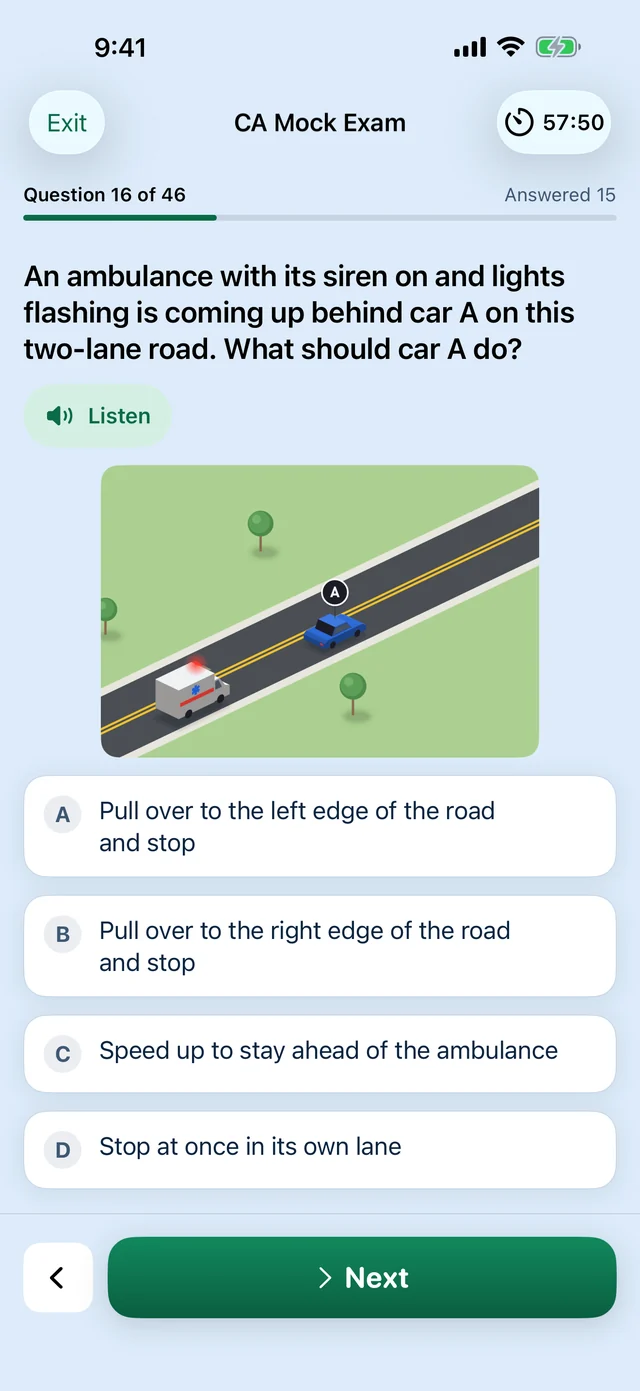
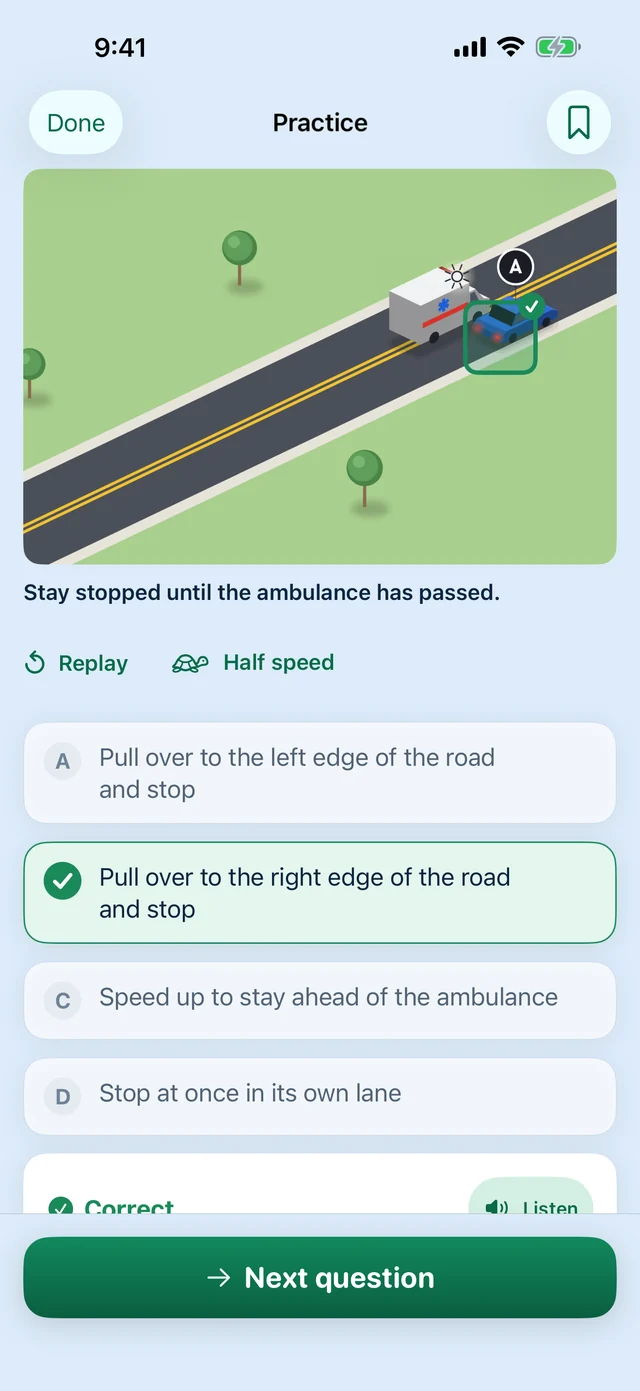
Concept C round 4: whole phone tops everywhere, full screens, stacked phone cards
- Spanish step 1: the old notch is gone; the frame's dynamic island sits over a clean status bar
- Hero results screens show the real 'What you missed' card instead of an empty bottom third
- Animated scenes card: the large playing ambulance scene; Spanish card: a full question with its scene
- Motorcycle card: the motorcycle home (rider photo, readable); Spanish step 3 mock exam with a scene
- Spanish teen card: the Spanish home (no clipped streak card); closing: 14-day streak in both languages
- Phone: steps and app screens stack (no half-cut neighbour cards); proof cards before the hero phone
- Trial line as plain text, '5.0 on the App Store', nav download button, badge after the signs
- Parents: 4:3 photo with caption, cards end level; guarantee in three ticked lines
- Closing: App Store button leads, state samples a small link; Spanish copy fixes (carro, Mamá o papá)

diff --git a/es/index.html b/es/index.html
@@ -59,6 +59,7 @@
       <a href="/es/motocicleta/"><span class="d-only">Motocicleta</span><span class="m-only">Moto</span></a>
       <a href="/es/padres/">Padres</a>
       <a class="d-only" href="/es/garantia/">Garantía</a>
+      <a class="nav-dl store-link d-only" data-store="es-car" href="https://apps.apple.com/us/app/id6813140105">Descargar</a>
       <a class="lang" href="/" hreflang="en" lang="en" aria-label="English"><span class="d-only">English</span><span class="m-only">EN</span></a>
     </nav>
   </div>
@@ -70,10 +71,10 @@
       <div class="hero-copy">
         <span class="eyebrow"><span class="dot" aria-hidden="true"></span>Para los 50 estados y DC</span>
         <h1 id="hero-title">Aprueba tu examen del permiso a la primera. <span class="money">O te devolvemos tu dinero.</span></h1>
-        <p class="lede">Más de 6,250 preguntas de práctica, escenas animadas de manejo y simulacros completos con el formato real de tu estado. Auto o motocicleta, a cualquier edad, en español o en inglés.</p>
+        <p class="lede">Practica para el examen escrito del permiso de manejo con más de 6,250 preguntas, escenas animadas y simulacros con el formato real de tu estado. Carro o motocicleta, a cualquier edad, en español o en inglés.</p>
         <div class="cta-row" id="hero-cta">
           <a class="store-link appstore" data-store="es-car" href="https://apps.apple.com/us/app/id6813140105"><img src="/img/app-store-badge-es.svg" alt="Descárgalo en el App Store" width="162" height="54"></a>
-          <p class="trial es1"><svg class="i" viewBox="0 0 24 24" aria-hidden="true"><path d="M5 12.5l4.2 4.2L19 7"/></svg><span><span class="ln">Prueba gratis de 3 días</span> <span class="sep">·</span> <span class="ln">Cancela cuando quieras</span></span></p>
+          <p class="trial plain es1"><svg class="i" viewBox="0 0 24 24" aria-hidden="true"><path d="M5 12.5l4.2 4.2L19 7"/></svg><span><span class="ln">Prueba gratis de 3 días</span> <span class="sep">·</span> <span class="ln">Cancela cuando quieras</span></span></p>
         </div>
       </div>
       <figure class="hero-visual">
@@ -81,10 +82,10 @@
         <figcaption class="cap">Un resultado real de simulacro en DriveDrill</figcaption>
       </figure>
       <div class="hero-more">
-        <p class="cancel">Cancela en Ajustes del iPhone antes de que terminen los 3 días y no pagas nada.</p>
+        <p class="cancel">Si cancelas en Ajustes del iPhone antes de que terminen los 3 días, no pagas nada.</p>
         <ul class="hero-proof">
           <li><img class="shield-s" src="/concept-c/img/shield-es.webp" width="192" height="216" alt=""><span><b>Garantía de aprobación:</b> apruebas tu examen de conocimientos o te devolvemos tu dinero. <a href="/es/garantia/">Aplican condiciones.</a></span></li>
-          <li><a class="store-link rate" data-store="es-car" href="https://apps.apple.com/us/app/id6813140105"><span class="big">5.0</span><span><span class="stars" aria-hidden="true"><svg class="i" viewBox="0 0 24 24"><path d="M12 3.2l2.6 5.3 5.9.9-4.3 4.1 1 5.8L12 16.6l-5.2 2.7 1-5.8-4.3-4.1 5.9-.9z"/></svg><svg class="i" viewBox="0 0 24 24"><path d="M12 3.2l2.6 5.3 5.9.9-4.3 4.1 1 5.8L12 16.6l-5.2 2.7 1-5.8-4.3-4.1 5.9-.9z"/></svg><svg class="i" viewBox="0 0 24 24"><path d="M12 3.2l2.6 5.3 5.9.9-4.3 4.1 1 5.8L12 16.6l-5.2 2.7 1-5.8-4.3-4.1 5.9-.9z"/></svg><svg class="i" viewBox="0 0 24 24"><path d="M12 3.2l2.6 5.3 5.9.9-4.3 4.1 1 5.8L12 16.6l-5.2 2.7 1-5.8-4.3-4.1 5.9-.9z"/></svg><svg class="i" viewBox="0 0 24 24"><path d="M12 3.2l2.6 5.3 5.9.9-4.3 4.1 1 5.8L12 16.6l-5.2 2.7 1-5.8-4.3-4.1 5.9-.9z"/></svg></span><br><span class="u">Calificación de 5.0 en el App Store</span></span></a></li>
+          <li><a class="store-link rate" data-store="es-car" href="https://apps.apple.com/us/app/id6813140105"><span class="big">5.0</span><span><span class="stars" aria-hidden="true"><svg class="i" viewBox="0 0 24 24"><path d="M12 3.2l2.6 5.3 5.9.9-4.3 4.1 1 5.8L12 16.6l-5.2 2.7 1-5.8-4.3-4.1 5.9-.9z"/></svg><svg class="i" viewBox="0 0 24 24"><path d="M12 3.2l2.6 5.3 5.9.9-4.3 4.1 1 5.8L12 16.6l-5.2 2.7 1-5.8-4.3-4.1 5.9-.9z"/></svg><svg class="i" viewBox="0 0 24 24"><path d="M12 3.2l2.6 5.3 5.9.9-4.3 4.1 1 5.8L12 16.6l-5.2 2.7 1-5.8-4.3-4.1 5.9-.9z"/></svg><svg class="i" viewBox="0 0 24 24"><path d="M12 3.2l2.6 5.3 5.9.9-4.3 4.1 1 5.8L12 16.6l-5.2 2.7 1-5.8-4.3-4.1 5.9-.9z"/></svg><svg class="i" viewBox="0 0 24 24"><path d="M12 3.2l2.6 5.3 5.9.9-4.3 4.1 1 5.8L12 16.6l-5.2 2.7 1-5.8-4.3-4.1 5.9-.9z"/></svg></span><br><span class="u">en el App Store</span></span></a></li>
         </ul>
         <p class="hero-links"><a href="#estados">Preguntas de muestra de tu estado →</a><a href="#familias">¿Pagas tú por tu hijo o hija? Mira cómo →</a></p>
       </div>
@@ -106,11 +107,10 @@
       <h2 id="how-title">Tres pasos hasta el día del examen.</h2>
       <p class="sec-sub">Descubre en qué nivel estás con una prueba rápida de 3 minutos y sigue un plan hecho con tus propias respuestas.</p>
       <ol class="rail steps">
-        <li class="card step"><span class="n">1</span><h3>Haz la prueba de nivel</h3><p class="t">Elige tu estado y responde 6 preguntas como las del examen real, en unos 3 minutos. Gratis.</p><div class="phone"><img src="/concept-c/img/es-start.webp" width="640" height="1385" alt="La primera pantalla de DriveDrill en español: Prepárate para aprobar tu examen de permiso, calificación de 5.0 en el App Store, la Garantía de aprobación, auto o motocicleta y la lista de estados, con el botón Empezar." loading="lazy" decoding="async"></div></li>
-        <li class="card step"><span class="n">2</span><h3>Recibe tu plan</h3><p class="t">Ve tus temas débiles, la fecha en que tendrás todo listo y tu meta diaria.</p><div class="phone"><img src="/concept-c/img/es-plan.webp" width="640" height="1391" alt="Pantalla de DriveDrill: Tu plan de California está listo, con la gráfica hacia la nota para aprobar, preguntas por día y un simulacro cada 3 días." loading="lazy" decoding="async"></div></li>
-        <li class="card step"><span class="n">3</span><h3>Aprueba el simulacro</h3><p class="t">Simulacros completos con el formato real de tu estado. Cada respuesta, explicada.</p><div class="phone isl"><img src="/concept-c/img/es-exam.webp" width="640" height="1391" alt="Pantalla de DriveDrill: Simulacro de examen de CA, pregunta 16 de 46, sobre qué hacer si no estás en el carril correcto para dar vuelta." loading="lazy" decoding="async"></div></li>
+        <li class="card step"><span class="n">1</span><h3>Haz la prueba de nivel</h3><p class="t">Elige tu estado y responde 6 preguntas como las del examen real, en unos 3 minutos. Gratis.</p><div class="phone isl"><img src="/concept-c/img/es-start.webp" width="640" height="1385" alt="La primera pantalla de DriveDrill en español: Prepárate para aprobar tu examen de permiso, calificación de 5.0 en el App Store, la Garantía de aprobación, carro o motocicleta y la lista de estados, con el botón Empezar." loading="lazy" decoding="async"></div></li>
+        <li class="card step"><span class="n">2</span><h3>Recibe tu plan</h3><p class="t">Ve la fecha en que tendrás todo listo, tu meta diaria y un simulacro cada pocos días.</p><div class="phone"><img src="/concept-c/img/es-plan.webp" width="640" height="1391" alt="Pantalla de DriveDrill: Tu plan de California está listo, con la gráfica hacia la nota para aprobar, preguntas por día y un simulacro cada 3 días." loading="lazy" decoding="async"></div></li>
+        <li class="card step"><span class="n">3</span><h3>Aprueba el simulacro</h3><p class="t">Simulacros completos con el formato real de tu estado. Cada respuesta, explicada.</p><div class="phone isl"><img src="/concept-c/img/es-exam.webp" width="640" height="1391" alt="Pantalla de DriveDrill: Simulacro de examen de CA, pregunta 16 de 46, con una escena de una ambulancia que se acerca por detrás del vehículo A en un camino de dos carriles, y cuatro respuestas." loading="lazy" decoding="async"></div></li>
       </ol>
-      <p class="swipe-hint">Desliza para ver los pasos 2 y 3 →</p>
       <div class="mini-cta">
         <a class="store-link appstore" data-store="es-car" href="https://apps.apple.com/us/app/id6813140105"><img src="/img/app-store-badge-es.svg" alt="Descárgalo en el App Store" width="162" height="54"></a>
         <p>Empieza con la prueba rápida de 3 minutos, gratis.</p>
@@ -128,18 +128,17 @@
       <div class="rail feats">
         <article class="card feat">
           <h3>También para el permiso de moto</h3><p class="t">Con sus propias lecciones, exámenes de práctica y racha diaria, en la misma app. <a href="/es/motocicleta/">Prepárate para el permiso de moto</a></p>
-          <div class="phone"><img src="/concept-c/img/es-moto.webp" width="640" height="1391" alt="Pantalla de DriveDrill: Tu plan de motocicleta de California está listo, con 70 preguntas al día, un examen de práctica cada 3 días, preguntas de tres ruedas y la inspección antes de manejar." loading="lazy" decoding="async"></div>
+          <div class="phone"><img src="/concept-c/img/es-moto.webp" width="640" height="1391" alt="Inicio de motocicleta en DriveDrill: 5 días de racha, Él aprobó. Tú sigues., con un nuevo motociclista que muestra su licencia, y la siguiente lección, Casco y equipo 2." loading="lazy" decoding="async"></div>
         </article>
         <article class="card feat">
           <h3>Escenas animadas de manejo</h3><p class="t">Más de 60 escenas. Mira la situación y luego responde.</p>
-          <div class="phone isl"><img src="/concept-c/img/es-scene.webp" width="640" height="1391" alt="Simulacro de examen de CA en DriveDrill, pregunta 16 de 46: una escena animada de una ambulancia que se acerca por detrás del vehículo A en un camino de dos carriles, con cuatro respuestas." loading="lazy" decoding="async"></div>
+          <div class="phone isl"><img src="/concept-c/img/es-scene.webp" width="640" height="1391" alt="Práctica en DriveDrill: una escena animada grande de una ambulancia con luces intermitentes detrás del vehículo A, que se orilló al borde derecho del camino. Abajo: quédate detenido hasta que haya pasado la ambulancia, y la respuesta correcta marcada." loading="lazy" decoding="async"></div>
         </article>
         <article class="card feat">
           <h3>Todo en español</h3><p class="t">Cada pregunta, lección y pantalla en español o en inglés, como prefieras.</p>
-          <div class="phone isl"><img src="/concept-c/img/es-watch.webp" width="640" height="1391" alt="Pregunta de práctica de DriveDrill en español, con una escena animada de un conductor que sale del camino para contestar el teléfono y la respuesta correcta marcada: ilegal para todos los conductores." loading="lazy" decoding="async"></div>
+          <div class="phone isl"><img src="/concept-c/img/es-question.webp" width="640" height="1391" alt="Pregunta de práctica de DriveDrill en español: En California, usar un teléfono celular en la mano mientras manejas es:, con una escena animada y la respuesta correcta marcada: ilegal para todos los conductores." loading="lazy" decoding="async"></div>
         </article>
       </div>
-      <p class="swipe-hint">Desliza para ver más →</p>
       <article class="card signs-card">
         <h3>Señales vistas desde el volante</h3><p class="t">90 señales de tránsito tal como las ves al manejar. Encuentra la señal y responde.</p>
         <ul class="rail signs">
@@ -151,6 +150,10 @@
           <li><figure><img src="/img/pov/W4-2R_lane_ends.webp" width="600" height="600" alt="La señal de Fin de carril, vista desde el asiento del conductor." loading="lazy" decoding="async"><figcaption>Fin de carril</figcaption></figure></li>
         </ul>
       </article>
+      <div class="mini-cta">
+        <a class="store-link appstore" data-store="es-car" href="https://apps.apple.com/us/app/id6813140105"><img src="/img/app-store-badge-es.svg" alt="Descárgalo en el App Store" width="162" height="54"></a>
+        <p>Prueba gratis de 3 días · Cancela cuando quieras</p>
+      </div>
     </div>
   </section>
 
@@ -168,23 +171,23 @@
           <ul class="ticks">
             <li><svg class="i" viewBox="0 0 24 24" aria-hidden="true"><path d="M5 12.5l4.2 4.2L19 7"/></svg><div><b>Una racha diaria</b> <span>con metas a los 3, 7, 14 y 30 días.</span></div></li>
             <li><svg class="i" viewBox="0 0 24 24" aria-hidden="true"><path d="M5 12.5l4.2 4.2L19 7"/></svg><div><b>Míralo en acción.</b> <span>Más de 60 escenas animadas te muestran por qué la respuesta es correcta.</span></div></li>
-            <li><svg class="i" viewBox="0 0 24 24" aria-hidden="true"><path d="M5 12.5l4.2 4.2L19 7"/></svg><div><b>Auto o motocicleta,</b> <span>en español o en inglés.</span></div></li>
+            <li><svg class="i" viewBox="0 0 24 24" aria-hidden="true"><path d="M5 12.5l4.2 4.2L19 7"/></svg><div><b>Carro o motocicleta,</b> <span>en español o en inglés.</span></div></li>
           </ul>
           <div class="bottom">
-            <div class="phone"><img src="/concept-c/img/es-lesson.webp" width="640" height="1391" alt="Pantalla de DriveDrill: Lección aprobada, ¡Excelente trabajo!, 7 de 8 correctas, con la racha diaria en 5 días." loading="lazy" decoding="async"></div>
-            <p class="cap">Cada lección termina con tu racha</p>
+            <div class="phone"><img src="/concept-c/img/es-home.webp" width="640" height="1391" alt="Inicio de DriveDrill en español: 5 días de racha, Ella aprobó. Tú sigues., y la siguiente lección, Vehículo y equipo 1, con el botón Empezar la lección." loading="lazy" decoding="async"></div>
+            <p class="cap">Tu racha diaria, siempre a la vista</p>
           </div>
         </article>
         <article class="card who parents" aria-labelledby="parents-title">
           <span class="tag">Para padres</span>
-          <h3 id="parents-title">Papás: siempre sabes cómo va.</h3>
+          <h3 id="parents-title">Mamá o papá: siempre sabes cómo va.</h3>
           <ul class="ticks">
             <li><svg class="i" viewBox="0 0 24 24" aria-hidden="true"><path d="M5 12.5l4.2 4.2L19 7"/></svg><div><b>Botón “Que pague tu padre, madre o tutor”:</b> <span>tu hijo o hija lo toca y tú recibes su progreso y un enlace seguro para pagar en línea. Se desbloquea en su teléfono.</span></div></li>
             <li><svg class="i" viewBox="0 0 24 24" aria-hidden="true"><path d="M5 12.5l4.2 4.2L19 7"/></svg><div><b>Compatible con Solicitar la compra de Apple:</b> <span>tú apruebas la compra desde tu propio iPhone.</span></div></li>
           </ul>
           <div class="parent-row"><div class="shot"><img src="/concept-c/img/es-parent-row.webp" width="640" height="154" alt="El botón de DriveDrill: Que pague tu padre, madre o tutor. Envíales tu progreso y un enlace de pago seguro." loading="lazy" decoding="async"></div><p class="cap">El botón que tu hijo o hija toca en la app</p></div>
           <div class="bottom">
-            <div class="photo"><img src="/concept-c/img/photo-parent-teen.webp" width="720" height="1290" alt="Una adolescente sonriente, en el asiento del conductor, muestra su nueva tarjeta mientras su mamá la mira desde la puerta del auto." loading="lazy" decoding="async"></div>
+            <figure class="photo-fig"><div class="photo"><img src="/concept-c/img/photo-parent-teen-43.webp" width="720" height="540" alt="Una adolescente sonriente, en el asiento del conductor, muestra su nueva tarjeta mientras su mamá la mira desde la puerta del carro." loading="lazy" decoding="async"></div><figcaption class="cap">Ella aprobó. Ahora maneja.</figcaption></figure>
             <a class="btn-ghost" href="/es/padres/">Cómo pueden pagar los padres <svg class="i" viewBox="0 0 24 24" aria-hidden="true"><path d="M5 12h14M13 6l6 6-6 6"/></svg></a>
           </div>
         </article>
@@ -198,7 +201,7 @@
     <div class="wrap center">
       <p class="kicker">Hecho para tu estado</p>
       <h2 id="states-title">Los 50 estados y DC.</h2>
-      <p class="sec-sub">Toca tu estado para probar preguntas de muestra del examen de tu estado, en español, con la respuesta explicada.</p>
+      <p class="sec-sub">Toca tu estado y prueba preguntas de muestra de su examen, en español y con la respuesta explicada.</p>
       <ul class="popular" aria-label="Estados populares">
         <li><a href="/es/texas/">Texas <svg class="i" viewBox="0 0 24 24" aria-hidden="true"><path d="M5 12h14M13 6l6 6-6 6"/></svg></a></li>
         <li><a href="/es/california/">California <svg class="i" viewBox="0 0 24 24" aria-hidden="true"><path d="M5 12h14M13 6l6 6-6 6"/></svg></a></li>
@@ -275,7 +278,12 @@
         <div>
           <h2 id="g-title">Apruebas o te devolvemos tu dinero.</h2>
           <p>Si estudias con DriveDrill y no apruebas el examen de conocimientos de tu estado, te devolvemos lo que pagaste.</p>
-          <p class="how">En resumen: aprueba al menos 5 simulacros completos en la app (el último en los 30 días antes de tu examen), presenta tu examen dentro de los 45 días después de la compra y haz tu reclamo en los 30 días siguientes.</p>
+          <p class="how">En resumen:</p>
+          <ul class="g-list">
+            <li><svg class="i" viewBox="0 0 24 24" aria-hidden="true"><path d="M5 12.5l4.2 4.2L19 7"/></svg>Aprueba al menos 5 simulacros completos en la app, el último dentro de los 30 días previos a tu examen.</li>
+            <li><svg class="i" viewBox="0 0 24 24" aria-hidden="true"><path d="M5 12.5l4.2 4.2L19 7"/></svg>Presenta tu examen dentro de los 45 días posteriores a la compra.</li>
+            <li><svg class="i" viewBox="0 0 24 24" aria-hidden="true"><path d="M5 12.5l4.2 4.2L19 7"/></svg>Haz tu reclamo en los 30 días siguientes.</li>
+          </ul>
         </div>
         <div class="g-act">
           <a class="lnk" href="/es/garantia/">Ver todas las condiciones <svg class="i" viewBox="0 0 24 24" aria-hidden="true"><path d="M5 12h14M13 6l6 6-6 6"/></svg></a>
@@ -296,10 +304,10 @@
         <details><summary>¿Cómo funciona la Garantía de aprobación?</summary><p>Apruebas tu examen de conocimientos o te devolvemos tu dinero. Aplican condiciones: <a href="/es/garantia/">lee la Garantía de aprobación</a>.</p></details>
         <details><summary>¿Puede pagarla un padre, madre o tutor?</summary><p>Sí. Tu hijo o hija toca “Que pague tu padre, madre o tutor” en la app y tú recibes un enlace para pagar en línea, o puedes usar Solicitar la compra de Apple. También puedes <a href="https://pay.rev.cat/yuwstwhwjikdjbuz/">comprarla en la web</a> y abrir el enlace en el iPhone que tiene DriveDrill para desbloquearla. <a href="/es/padres/">Cómo pueden pagar los padres</a>.</p></details>
         <details><summary>¿Está en español?</summary><p>Sí. Puedes estudiar en español o en inglés. <a href="/" hreflang="en" lang="en">See it in English</a>.</p></details>
-        <details><summary>¿Tiene examen de moto? ¿Sirve para adultos?</summary><p>El examen del permiso de moto está en la misma app, con sus propias lecciones y exámenes de práctica. Y no es solo para jóvenes: cualquier persona que saque el permiso de auto o de moto puede usarla, a cualquier edad. <a href="/es/motocicleta/">Prepárate para el permiso de moto</a>.</p></details>
+        <details><summary>¿Tiene examen de moto? ¿Sirve para adultos?</summary><p>El examen del permiso de moto está en la misma app, con sus propias lecciones y exámenes de práctica. Y no es solo para jóvenes: cualquier persona que saque el permiso de carro o de moto puede usarla, a cualquier edad. <a href="/es/motocicleta/">Prepárate para el permiso de moto</a>.</p></details>
         <details class="more"><summary>Más preguntas</summary>
           <div class="more-list">
-            <details><summary>¿Cuántas preguntas de práctica tiene?</summary><p>Más de 6,250 en total, más de 5,600 de ellas para el permiso de auto, además del examen de motocicleta.</p></details>
+            <details><summary>¿Cuántas preguntas de práctica tiene?</summary><p>Más de 6,250 en total, más de 5,600 de ellas para el permiso de carro, además del examen de motocicleta.</p></details>
             <details><summary>¿Cuánto dura la prueba rápida de nivel?</summary><p>6 preguntas, unos 3 minutos. Te muestra en qué nivel estás y arma tu plan con tus respuestas. Es práctica, no el examen de conocimientos de tu estado.</p></details>
             <details><summary>¿DriveDrill es del DMV?</summary><p>No. DriveDrill es una app de estudio independiente y no está afiliada a ningún organismo estatal.</p></details>
           </div>
@@ -316,11 +324,10 @@
           <p class="l">Haz la prueba de nivel, recibe tu plan y llega a tu examen con todo listo.</p>
           <div class="cta-row">
             <a class="store-link appstore" data-store="es-car" href="https://apps.apple.com/us/app/id6813140105"><img src="/img/app-store-badge-es.svg" alt="Descárgalo en el App Store" width="162" height="54"></a>
-            <p class="trial es1"><svg class="i" viewBox="0 0 24 24" aria-hidden="true"><path d="M5 12.5l4.2 4.2L19 7"/></svg><span><span class="ln">Prueba gratis de 3 días</span> <span class="sep">·</span> <span class="ln">Cancela cuando quieras</span></span></p>
+            <p class="trial plain es1"><svg class="i" viewBox="0 0 24 24" aria-hidden="true"><path d="M5 12.5l4.2 4.2L19 7"/></svg><span><span class="ln">Prueba gratis de 3 días</span> <span class="sep">·</span> <span class="ln">Cancela cuando quieras</span></span></p>
           </div>
-          <p class="cancel">Cancela antes de que terminen los 3 días y no pagas nada. Garantía de aprobación: <a href="/es/garantia/">aplican condiciones</a>.</p>
-          <label class="filter"><svg class="i" viewBox="0 0 24 24" aria-hidden="true"><circle cx="11" cy="11" r="6.5"/><path d="M20 20l-4.2-4.2"/></svg><span class="sr">Busca tu estado para probar preguntas</span><input id="close-q" type="search" placeholder="Busca tu estado" autocomplete="off" enterkeyhint="go"></label>
-          <p class="no-match" id="close-none" hidden>Ningún estado coincide. Prueba con otra ortografía.</p>
+          <p class="cancel">Si cancelas antes de que terminen los 3 días, no pagas nada. Garantía de aprobación: <a href="/es/garantia/">aplican condiciones</a>.</p>
+          <p class="close-link"><a href="#estados">O prueba primero las preguntas de tu estado <svg class="i" viewBox="0 0 24 24" aria-hidden="true"><path d="M5 12h14M13 6l6 6-6 6"/></svg></a></p>
         </div>
         <figure class="close-fig">
           <div class="phone"><img src="/concept-c/img/es-streak.webp" width="640" height="1391" alt="Pantalla de DriveDrill en español: 14 días de racha, dos semanas seguidas, con las metas de racha a los 3, 7, 14 y 30 días." loading="lazy" decoding="async"></div>
@@ -388,7 +395,6 @@
     });
   }
   wire(document.getElementById('state-q'), document.getElementById('no-match'), true);
-  wire(document.getElementById('close-q'), document.getElementById('close-none'), false);
 })();
 </script>
 <script>

diff --git a/index.html b/index.html
@@ -67,6 +67,7 @@
       <a href="/motorcycle/"><span class="d-only">Motorcycle</span><span class="m-only">Moto</span></a>
       <a href="/parents/">Parents</a>
       <a class="d-only" href="/guarantee/">Pass Guarantee</a>
+      <a class="nav-dl store-link d-only" data-store="car" href="https://apps.apple.com/us/app/id6813140105">Download</a>
       <a class="lang" href="/es/" hreflang="es" lang="es" aria-label="Español"><span class="d-only">Español</span><span class="m-only">ES</span></a>
     </nav>
   </div>
@@ -81,7 +82,7 @@
         <p class="lede">6,250+ practice questions, animated road scenes and full mock exams in your state's real format. Car or motorcycle, at any age, in English or Spanish.</p>
         <div class="cta-row" id="hero-cta">
           <a class="store-link appstore" data-store="car" href="https://apps.apple.com/us/app/id6813140105"><img src="/img/app-store-badge.svg" alt="Download on the App Store" width="162" height="54"></a>
-          <p class="trial"><svg class="i" viewBox="0 0 24 24" aria-hidden="true"><path d="M5 12.5l4.2 4.2L19 7"/></svg>3-Day Free Trial · Cancel Anytime</p>
+          <p class="trial plain"><svg class="i" viewBox="0 0 24 24" aria-hidden="true"><path d="M5 12.5l4.2 4.2L19 7"/></svg>3-Day Free Trial · Cancel Anytime</p>
         </div>
       </div>
       <figure class="hero-visual">
@@ -92,7 +93,7 @@
         <p class="cancel">Cancel in your iPhone Settings before the 3 days end and you pay nothing.</p>
         <ul class="hero-proof">
           <li><img class="shield-s" src="/concept-c/img/shield.webp" width="192" height="216" alt=""><span><b>Pass Guarantee:</b> pass your knowledge test or get your money back. <a href="/guarantee/">Conditions apply.</a></span></li>
-          <li><a class="store-link rate" data-store="car" href="https://apps.apple.com/us/app/id6813140105"><span class="big">5.0</span><span><span class="stars" aria-hidden="true"><svg class="i" viewBox="0 0 24 24"><path d="M12 3.2l2.6 5.3 5.9.9-4.3 4.1 1 5.8L12 16.6l-5.2 2.7 1-5.8-4.3-4.1 5.9-.9z"/></svg><svg class="i" viewBox="0 0 24 24"><path d="M12 3.2l2.6 5.3 5.9.9-4.3 4.1 1 5.8L12 16.6l-5.2 2.7 1-5.8-4.3-4.1 5.9-.9z"/></svg><svg class="i" viewBox="0 0 24 24"><path d="M12 3.2l2.6 5.3 5.9.9-4.3 4.1 1 5.8L12 16.6l-5.2 2.7 1-5.8-4.3-4.1 5.9-.9z"/></svg><svg class="i" viewBox="0 0 24 24"><path d="M12 3.2l2.6 5.3 5.9.9-4.3 4.1 1 5.8L12 16.6l-5.2 2.7 1-5.8-4.3-4.1 5.9-.9z"/></svg><svg class="i" viewBox="0 0 24 24"><path d="M12 3.2l2.6 5.3 5.9.9-4.3 4.1 1 5.8L12 16.6l-5.2 2.7 1-5.8-4.3-4.1 5.9-.9z"/></svg></span><br><span class="u">Rated 5.0 on the App Store</span></span></a></li>
+          <li><a class="store-link rate" data-store="car" href="https://apps.apple.com/us/app/id6813140105"><span class="big">5.0</span><span><span class="stars" aria-hidden="true"><svg class="i" viewBox="0 0 24 24"><path d="M12 3.2l2.6 5.3 5.9.9-4.3 4.1 1 5.8L12 16.6l-5.2 2.7 1-5.8-4.3-4.1 5.9-.9z"/></svg><svg class="i" viewBox="0 0 24 24"><path d="M12 3.2l2.6 5.3 5.9.9-4.3 4.1 1 5.8L12 16.6l-5.2 2.7 1-5.8-4.3-4.1 5.9-.9z"/></svg><svg class="i" viewBox="0 0 24 24"><path d="M12 3.2l2.6 5.3 5.9.9-4.3 4.1 1 5.8L12 16.6l-5.2 2.7 1-5.8-4.3-4.1 5.9-.9z"/></svg><svg class="i" viewBox="0 0 24 24"><path d="M12 3.2l2.6 5.3 5.9.9-4.3 4.1 1 5.8L12 16.6l-5.2 2.7 1-5.8-4.3-4.1 5.9-.9z"/></svg><svg class="i" viewBox="0 0 24 24"><path d="M12 3.2l2.6 5.3 5.9.9-4.3 4.1 1 5.8L12 16.6l-5.2 2.7 1-5.8-4.3-4.1 5.9-.9z"/></svg></span><br><span class="u">on the App Store</span></span></a></li>
         </ul>
         <p class="hero-links"><a href="#states">Find your state's sample questions →</a><a href="#families">Parent paying? See how →</a></p>
       </div>
@@ -118,7 +119,6 @@
         <li class="card step"><span class="n">2</span><h3>Get your plan</h3><p class="t">See your ready-by date, a daily goal and a mock exam every few days.</p><div class="phone isl"><img src="/concept-c/img/s-plan.webp" width="640" height="1391" alt="DriveDrill screen: Your California plan is ready. Ready by Dec 17 with 20 minutes a day, 30 questions a day and a mock exam every 3 days." loading="lazy" decoding="async"></div></li>
         <li class="card step"><span class="n">3</span><h3>Pass the mock exam</h3><p class="t">Full mock exams in your state's real format. Every answer explained.</p><div class="phone isl"><img src="/concept-c/img/s-exam.webp" width="640" height="1391" alt="DriveDrill screen: CA Mock Exam, question 16 of 46, about the height sign on an overpass, with a photo and answer choices." loading="lazy" decoding="async"></div></li>
       </ol>
-      <p class="swipe-hint">Swipe for steps 2 and 3 →</p>
       <div class="mini-cta">
         <a class="store-link appstore" data-store="car" href="https://apps.apple.com/us/app/id6813140105"><img src="/img/app-store-badge.svg" alt="Download on the App Store" width="162" height="54"></a>
         <p>Start with the free 3-minute check.</p>
@@ -136,18 +136,17 @@
       <div class="rail feats">
         <article class="card feat">
           <h3>Motorcycle permit, too</h3><p class="t">Its own lessons, practice exams and daily streak, in the same app. <a href="/motorcycle/">Motorcycle prep</a></p>
-          <div class="phone"><img src="/concept-c/img/s-moto.webp" width="640" height="1391" alt="DriveDrill screen: Your California motorcycle plan is ready. Ready by Nov 29 with 70 questions a day, a practice exam every 3 days, three-wheel questions and the pre-ride inspection." loading="lazy" decoding="async"></div>
+          <div class="phone"><img src="/concept-c/img/s-moto.webp" width="640" height="1391" alt="DriveDrill motorcycle home: a 5-day streak, He passed. You're next. with a new rider holding his license, and the next lesson, Helmet and gear 2." loading="lazy" decoding="async"></div>
         </article>
         <article class="card feat">
           <h3>Animated road scenes</h3><p class="t">60+ scenes. Watch the situation, then answer.</p>
-          <div class="phone isl"><img src="/concept-c/img/s-scene.webp" width="640" height="1391" alt="DriveDrill CA Mock Exam, question 16 of 46: an animated scene of an ambulance coming up behind car A on a two-lane road, with four answers." loading="lazy" decoding="async"></div>
+          <div class="phone isl"><img src="/concept-c/img/s-scene.webp" width="640" height="1391" alt="DriveDrill practice: a large animated scene of an ambulance with flashing lights behind car A, which has pulled over to the right edge of the road. Below it: stay stopped until the ambulance has passed, and the right answer marked." loading="lazy" decoding="async"></div>
         </article>
         <article class="card feat">
           <h3>En español también</h3><p class="t">Every question, lesson and screen in English or Spanish.</p>
-          <div class="phone isl"><img src="/concept-c/img/es-watch.webp" width="640" height="1391" alt="DriveDrill in Spanish: a practice question with an animated scene of a driver pulling off the road to answer the phone, with the right answer marked: ilegal para todos los conductores." loading="lazy" decoding="async"></div>
+          <div class="phone isl"><img src="/concept-c/img/es-question.webp" width="640" height="1391" alt="DriveDrill in Spanish: En California, usar un teléfono celular en la mano mientras manejas es: with an animated scene and the right answer marked, ilegal para todos los conductores." loading="lazy" decoding="async"></div>
         </article>
       </div>
-      <p class="swipe-hint">Swipe for more →</p>
       <article class="card signs-card">
         <h3>Signs from the driver's seat</h3><p class="t">90 road signs the way you see them behind the wheel. Spot the sign, then answer.</p>
         <ul class="rail signs">
@@ -159,6 +158,10 @@
           <li><figure><img src="/img/pov/W4-2R_lane_ends.webp" width="600" height="600" alt="The Lane ends sign, seen from the driver's seat." loading="lazy" decoding="async"><figcaption>Lane ends</figcaption></figure></li>
         </ul>
       </article>
+      <div class="mini-cta">
+        <a class="store-link appstore" data-store="car" href="https://apps.apple.com/us/app/id6813140105"><img src="/img/app-store-badge.svg" alt="Download on the App Store" width="162" height="54"></a>
+        <p>3-Day Free Trial · Cancel Anytime</p>
+      </div>
     </div>
   </section>
 
@@ -192,7 +195,7 @@
           </ul>
           <div class="parent-row"><div class="shot"><img src="/concept-c/img/parent-row.webp" width="640" height="154" alt="The DriveDrill button: Have a parent or guardian pay. Send them your progress and a secure checkout link." loading="lazy" decoding="async"></div><p class="cap">The button your teen taps in the app</p></div>
           <div class="bottom">
-            <div class="photo"><img src="/concept-c/img/photo-parent-teen.webp" width="720" height="1290" alt="A smiling teen in the driver's seat holds up her new card while her mother looks on from the open car door." loading="lazy" decoding="async"></div>
+            <figure class="photo-fig"><div class="photo"><img src="/concept-c/img/photo-parent-teen-43.webp" width="720" height="540" alt="A smiling teen in the driver's seat holds up her new card while her mother looks on from the open car door." loading="lazy" decoding="async"></div><figcaption class="cap">She passed. Now she drives.</figcaption></figure>
             <a class="btn-ghost" href="/parents/">The three ways a parent can pay <svg class="i" viewBox="0 0 24 24" aria-hidden="true"><path d="M5 12h14M13 6l6 6-6 6"/></svg></a>
           </div>
         </article>
@@ -281,7 +284,12 @@
         <div>
           <h2 id="g-title">Pass, or get your money back.</h2>
           <p>If you study with DriveDrill and don't pass your state's knowledge test, we refund what you paid.</p>
-          <p class="how">In short: pass at least 5 full mock exams in the app (the last one within 30 days of your test), take your test within 45 days of buying, and claim within 30 days.</p>
+          <p class="how">In short:</p>
+          <ul class="g-list">
+            <li><svg class="i" viewBox="0 0 24 24" aria-hidden="true"><path d="M5 12.5l4.2 4.2L19 7"/></svg>Pass at least 5 full mock exams in the app, the last one within 30 days of your test.</li>
+            <li><svg class="i" viewBox="0 0 24 24" aria-hidden="true"><path d="M5 12.5l4.2 4.2L19 7"/></svg>Take your test within 45 days of buying.</li>
+            <li><svg class="i" viewBox="0 0 24 24" aria-hidden="true"><path d="M5 12.5l4.2 4.2L19 7"/></svg>Claim within 30 days.</li>
+          </ul>
         </div>
         <div class="g-act">
           <a class="lnk" href="/guarantee/">See all the conditions <svg class="i" viewBox="0 0 24 24" aria-hidden="true"><path d="M5 12h14M13 6l6 6-6 6"/></svg></a>
@@ -322,13 +330,15 @@
           <p class="l">Take the readiness check, get your plan, and walk into your test ready.</p>
           <div class="cta-row">
             <a class="store-link appstore" data-store="car" href="https://apps.apple.com/us/app/id6813140105"><img src="/img/app-store-badge.svg" alt="Download on the App Store" width="162" height="54"></a>
-            <p class="trial"><svg class="i" viewBox="0 0 24 24" aria-hidden="true"><path d="M5 12.5l4.2 4.2L19 7"/></svg>3-Day Free Trial · Cancel Anytime</p>
+            <p class="trial plain"><svg class="i" viewBox="0 0 24 24" aria-hidden="true"><path d="M5 12.5l4.2 4.2L19 7"/></svg>3-Day Free Trial · Cancel Anytime</p>
           </div>
           <p class="cancel">Cancel before the 3 days end and you pay nothing. Pass Guarantee <a href="/guarantee/">conditions apply</a>.</p>
-          <label class="filter"><svg class="i" viewBox="0 0 24 24" aria-hidden="true"><circle cx="11" cy="11" r="6.5"/><path d="M20 20l-4.2-4.2"/></svg><span class="sr">Find your state for sample questions</span><input id="close-q" type="search" placeholder="Find your state" autocomplete="off" enterkeyhint="go"></label>
-          <p class="no-match" id="close-none" hidden>No state matches. Try another spelling.</p>
+          <p class="close-link"><a href="#states">Or try your state's sample questions first <svg class="i" viewBox="0 0 24 24" aria-hidden="true"><path d="M5 12h14M13 6l6 6-6 6"/></svg></a></p>
         </div>
-        <div class="phone isl"><img src="/concept-c/img/s-state.webp" width="640" height="1391" alt="DriveDrill first screen: Get ready to pass your permit test, rated 5.0 on the App Store, the Pass Guarantee, a choice of car or motorcycle and your state." loading="lazy" decoding="async"></div>
+        <figure class="close-fig">
+          <div class="phone"><img src="/concept-c/img/s-streak14.webp" width="640" height="1391" alt="DriveDrill screen: 14 day streak! Two weeks in a row, with streak milestones at 3, 7, 14 and 30 days." loading="lazy" decoding="async"></div>
+          <figcaption class="cap">Your daily streak, with milestones at 3, 7, 14 and 30 days</figcaption>
+        </figure>
       </div>
     </div>
   </section>
@@ -391,7 +401,6 @@
     });
   }
   wire(document.getElementById('state-q'), document.getElementById('no-match'), true);
-  wire(document.getElementById('close-q'), document.getElementById('close-none'), false);
 })();
 </script>
 <script>

diff --git a/concept-c/c.css b/concept-c/c.css
@@ -307,3 +307,79 @@ section[id] { scroll-margin-top: 80px; }
 .close-in > * { min-width: 0; }
 @media (max-width: 599px) { .close-in { padding: 32px 18px; } .close-in .trial.es1 { font-size: 12.5px; padding: 7px 10px 7px 8px; } }
 @media (max-width: 370px) { .close-in .trial.es1 { font-size: 11.5px; } }
+
+/* ---------- round 4 ---------- */
+/* the trial line reads as plain text with a check, never as a second button */
+.trial.plain { background: none; padding: 0; border-radius: 0; min-height: 0; color: var(--green-deep); font-weight: 750; font-size: 15px; }
+.trial.plain svg.i { color: #fff; background: var(--green); border-radius: 50%; padding: 3px; width: 20px; height: 20px; stroke-width: 3; }
+@media (min-width: 1000px) { .hero .trial.plain, .close-in .trial.plain { min-height: 0; padding: 0; font-size: 16px; } }
+.close-in .trial.plain { background: none; color: #fff; }
+.close-in .trial.plain svg.i { background: #1FA572; }
+@media (max-width: 599px) { .trial.plain.es1, .close-in .trial.plain.es1 { padding: 0; font-size: 13.5px; } }
+@media (max-width: 370px) { .trial.plain.es1, .close-in .trial.plain.es1 { font-size: 12.5px; } }
+
+/* desktop nav: a small download button */
+.nav .nav-dl { background: var(--green); color: #fff; border-radius: 999px; padding: 8px 16px; font-size: 15px; }
+.nav .nav-dl:hover { background: var(--green-deep); color: #fff; }
+@media (max-width: 899px) { .nav .nav-dl { display: none; } }
+
+/* hero on a phone: the proof (guarantee, rating) comes before the phone, and the phone is smaller */
+@media (max-width: 999px) {
+  .hero-grid { grid-template-areas: "copy" "more" "visual"; }
+  .hero-copy { grid-area: copy; } .hero-more { grid-area: more; } .hero-visual { grid-area: visual; max-width: 230px; }
+  .hero-grid { gap: 20px; }
+}
+.hero-more .cancel { margin-top: 0; }
+@media (min-width: 1000px) { .hero-more .cancel { margin-top: 14px; } .hero-proof { margin-top: 14px; } }
+
+/* every phone keeps clear room above its frame inside its card */
+.card .phone { margin-top: 24px; }
+
+/* steps and app screens on a phone: stacked cards, words left and the whole phone right (no sideways swipe) */
+@media (max-width: 899px) {
+  .rail.steps, .rail.feats { display: grid; grid-template-columns: 1fr; gap: 14px; overflow: visible; margin: 28px 0 0; padding: 0; }
+  .rail.steps > *, .rail.feats > * { flex: none; }
+  .steps .card, .feats .card { display: grid; grid-template-columns: minmax(0, 1fr) 44%; column-gap: 16px; align-content: start; align-items: start; padding: 20px 16px 20px 18px; }
+  .steps .card > :not(.phone), .feats .card > :not(.phone) { grid-column: 1; }
+  .steps .card .phone, .feats .card .phone { grid-column: 2; grid-row: 1 / span 4; width: 100%; max-width: none; margin: 0; }
+  .steps .card h3, .feats .card h3 { font-size: 20px; }
+  .steps .card p.t, .feats .card p.t { margin-bottom: 0; font-size: 15.5px; line-height: 1.45; }
+  .steps .step .n { width: 34px; height: 34px; font-size: 17px; margin-bottom: 10px; }
+  .phone { padding: 5px; border-radius: 24px; } .phone img { border-radius: 19px; }
+  .phone.isl::after { top: 5px; }
+  .hero-visual .phone { padding: 6px; border-radius: 30px; } .hero-visual .phone img { border-radius: 24px; }
+}
+.swipe-hint { display: none !important; }
+
+/* the download button after the signs */
+#inside .mini-cta, #dentro .mini-cta { margin-top: 26px; }
+
+/* parents: the 4:3 photo, full width of the card */
+.who .photo-fig { margin: 18px auto 0; width: 100%; max-width: 460px; }
+.who .photo-fig .photo { max-width: none; margin: 0; }
+@media (min-width: 1000px) { .who.parents .parent-row { margin-top: 4px; } }
+
+/* guarantee band: three ticked lines, no orphan words, link centred */
+.g-band p, .g-band h2 { text-wrap: pretty; }
+.g-band p.how { margin-top: 14px; font-weight: 750; color: #fff; }
+.g-list { list-style: none; margin: 8px 0 0; padding: 0; display: grid; gap: 6px; }
+.g-list li { display: flex; gap: 9px; align-items: flex-start; color: #E2F5EB; font-size: 15.5px; line-height: 1.45; }
+.g-list svg.i { width: 18px; height: 18px; stroke-width: 3; color: #9BE3BF; margin-top: 2px; }
+.g-act { align-self: center; }
+@media (min-width: 860px) { .g-band { grid-template-columns: 104px minmax(0, 1fr) auto; } .g-band > img { align-self: start; margin-top: 6px; } }
+
+/* closing: the App Store button is the one action; state samples are a small link */
+.close-link { margin-top: 16px; font-size: 15px; }
+.close-link a { color: #9BE3BF; font-weight: 700; text-decoration: none; display: inline-flex; align-items: center; gap: 6px; }
+.close-link a:hover { text-decoration: underline; }
+.close-link svg.i { width: 18px; height: 18px; }
+.close-in .cta-row .store-link img { width: 192px; }
+/* families: the two cards end level without padding (smaller teen phone on wide screens, photo right under the button) */
+.who .bottom { padding-top: 0; }
+@media (min-width: 1000px) {
+  .who.teens .phone { max-width: 272px; }
+  .who.parents .bottom { margin-top: 22px; }
+  .who.parents .photo-fig { max-width: none; }
+  .who.parents .btn-ghost { margin-top: 16px; }
+}
+.g-band > div > p:not(.how) { text-wrap: balance; max-width: 54ch; }
